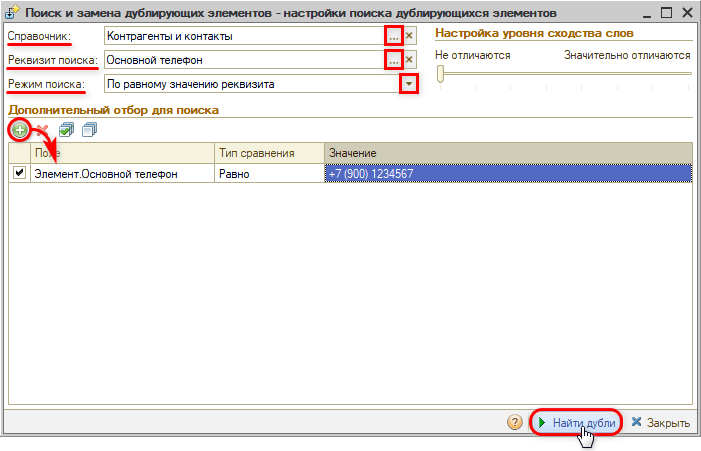
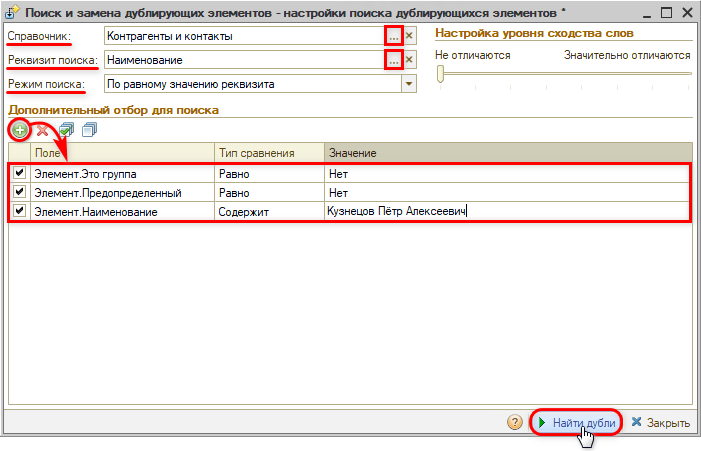
Совет «Как объединить дублирующиеся карточки контрагентов»: по тикету – сначала привести наименования к одному виду, затем поиск по наименованию с отбором (без групп и предопределенных), вариант по телефону; новые скриншоты (Катя, 27.10.2026).

Changed region(s): [[0.0, 0.2483, 0.9886, 0.4967], [0.1498, 0.1242, 0.2996, 0.1552], [0.5692, 0.1552, 0.5991, 0.2173]]

diff --git a/tips/5S AUTO/Администрирование/Как объединить дублирующиеся карточки контрагентов/kak-obedinit-dubliruyushchiesya-kartochki-kontragentov.md b/tips/5S AUTO/Администрирование/Как объединить дублирующиеся карточки контрагентов/kak-obedinit-dubliruyushchiesya-kartochki-kontragentov.md
@@ -6,7 +6,7 @@
 
 Один и тот же клиент заведен в справочнике **«Контрагенты и контакты»** дважды. Карточки могут совпадать по основному телефону или ФИО, а могут и отличаться: например, в одной карточке другой номер телефона, указано только имя без фамилии или ФИО написаны с опечаткой:
 
-![Две карточки одного клиента в справочнике «Контрагенты и контакты»](attachments/01-dubli-kontragentov-1.png)
+![Две карточки одного клиента в справочнике «Контрагенты и контакты»](attachments/01-dubli-kontragentov-2.png)
 
 Документы, автомобили и взаиморасчеты клиента оказались разнесены по двум карточкам. Как объединить их в одну?
 
@@ -17,47 +17,66 @@
 > [!CAUTION]
 > Объединение необратимо: отменить замену ссылок и вернуть удаленную карточку нельзя. Если есть тестовая база, сначала потренируйтесь на ней. Если нужно объединить много дублей, сначала объедините две карточки и проверьте результат.
 
-**1. Найдите дубли.**
+**1. Приведите наименования карточек к одному виду.**
+
+Убедитесь, что карточки относятся к одному клиенту: например, совпадают телефон и автомобили. Откройте карточку-дубль и исправьте наименование так, чтобы оно полностью совпадало с наименованием правильной карточки. В примере выше наименования различаются буквой «ё» и лишним пробелом – после исправления они совпадают:
+
+![Наименования карточек приведены к одному виду](attachments/01-privedenie-k-obshchemu-vidu-3-1.png)
+
+**2. Найдите дубли.**
 
 Откройте обработку: *Администрирование → Обслуживание → Инструменты администратора → Поиск и объединение дублей*:
 
 ![Обработка «Поиск и объединение дублей» в меню](attachments/02-poisk-i-obedinenie-dubley-1.png)
 
-В поле **«Справочник»** выберите «Контрагенты и контакты», в поле **«Реквизит поиска»** – реквизит, по которому искать совпадения, а в поле **«Режим поиска»** – способ сравнения:
+Заполните настройки поиска:
 
-- «По равному значению реквизита» – реквизит совпадает точно, например одинаковый «Основной телефон»;
-- «По похожим словам» – значения похожи, но не совпадают, например «Наименование» с опечаткой или без фамилии.
+- **«Справочник»** – «Контрагенты и контакты»;
+- **«Реквизит поиска»** – «Наименование»;
+- **«Режим поиска»** – «По равному значению реквизита».
 
-Чтобы найти дубли конкретного клиента, в таблице **«Дополнительный отбор для поиска»** нажмите **«Добавить»** и задайте условие, например «Элемент.Основной телефон» – «Равно» – номер клиента или «Элемент.Фамилия» – «Равно» – фамилия клиента. Нажмите **«Найти дубли»**:
+В таблице **«Дополнительный отбор для поиска»** кнопкой **«Добавить»** добавьте условие «Элемент.Наименование» – «Содержит» – ФИО клиента.
+
+> [!WARNING]
+> Нельзя объединять группу с элементом (например, папку контрагентов с карточкой контрагента) и предопределенные элементы – они нужны для работы программы. Чтобы такие элементы случайно не попали в поиск, рекомендуем добавить в отбор еще два условия:
+>
+> - «Элемент.Это группа» – «Равно» – «Нет»;
+> - «Элемент.Предопределенный» – «Равно» – «Нет».
+
+Нажмите **«Найти дубли»**:
 
 ![Настройки поиска дублей контрагентов](attachments/03-nastroyki-poiska-dubley-1.png)
 
+Если основной телефон в карточках одинаковый, искать можно и по нему – тогда наименования исправлять не нужно. Настройки: «Реквизит поиска» – «Основной телефон», в дополнительном отборе вместо наименования – «Элемент.Основной телефон» – «Равно» – номер клиента:
+
+![Настройки поиска дублей контрагентов по телефону](attachments/04-nastroyki-poiska-po-telefonu-1.png)
+
 > [!NOTE]
-> Без дополнительного отбора обработка проверяет весь справочник. В большой базе, особенно в режиме «По похожим словам», поиск может занять много времени, и программа на это время перестает отвечать. Чтобы поиск прошел быстрее, задайте дополнительный отбор.
+> Не рекомендуем искать без отбора по ФИО или телефону, а также в режиме «По похожим словам», особенно с ползунком «Настройка уровня сходства слов», сдвинутым к «Значительно отличаются». Обработка проверяет весь справочник, поиск в большой базе идет долго, а в одну группу попадают разные клиенты с похожими ФИО.
 
-Если дубли не найдены, измените критерии поиска: выберите другой реквизит или режим «По похожим словам», измените или уберите дополнительный отбор. В режиме «По похожим словам» можно также сдвинуть ползунок **«Настройка уровня сходства слов»** ближе к «Значительно отличаются» – тогда в одну группу попадут карточки с бо́льшими различиями в наименовании, например с разным отчеством. Такие группы проверяйте особенно внимательно: в них могут оказаться разные клиенты.
+Если дубли не найдены, проверьте, что наименования (или телефоны) в карточках совпадают полностью и в отборе указаны так же, как в карточках.
 
-**2. Проверьте найденные карточки.**
+**3. Проверьте найденные карточки.**
 
 В верхнем списке – группы дублей, в нижнем – карточки выделенной группы:
 
-![Результат поиска дублей](attachments/04-rezultat-poiska-dubley.png)
+![Результат поиска дублей](attachments/05-rezultat-poiska-dubley-1.png)
 
 Откройте и сравните карточки из нижнего списка: дважды щелкните по строке в колонке **«Объект»** и нажмите кнопку **«Открыть»**:
 
-![Открытие карточки из результатов поиска](attachments/05-otkryt-kartochku-1.png)
+![Открытие карточки из результатов поиска](attachments/06-otkryt-kartochku-1.png)
 
 Если карточка не является дублем, удалите ее из списка. Если в карточке-дубле есть данные, которых нет в правильной (например, второй телефон или e-mail), перенесите их в правильную карточку до объединения.
 
-**3. Объедините карточки.**
+**4. Объедините карточки.**
 
 Установите курсор на правильную карточку, нажмите **«Указать как правильный»** и на вопрос о замене ссылок ответьте **«Да»**:
 
-![Выбор правильной карточки и замена ссылок](attachments/06-ukazat-kak-pravilnyy-1.png)
+![Выбор правильной карточки и замена ссылок](attachments/07-ukazat-kak-pravilnyy-1.png)
 
 Откроется список ссылок на карточку-дубль – документы, регистры и другие объекты, в которых она будет заменена правильной. Проверьте список и настройки замены: при включенном флажке **«Удалять элементы после замены»** карточка-дубль будет удалена. Нажмите **«Выполнить замену элементов»** и подтвердите замену:
 
-![Выполнение замены элементов](attachments/07-vypolnit-zamenu-elementov-1.png)
+![Выполнение замены элементов](attachments/08-vypolnit-zamenu-elementov-1.png)
 
 Подробнее о работе с обработкой – в статье «[Поиск и замена дублирующихся записей → Пример работы](../../../../articles/5S%20AUTO/Администрирование%20и%20настройка%20системы/Поиск%20и%20замена%20дублирующихся%20записей/poisk-i-zamena-dubliruyuschikhsya-zapisey.md#пример-работы)».
 
@@ -66,7 +85,7 @@
 Обработка работает с любым справочником, поэтому выбирайте элементы для объединения очень внимательно. Не объединяйте:
 
 - **предопределенные элементы** – например, организацию «-» в справочнике «Организации» или головное подразделение в справочнике «Подразделения компании». Они нужны для работы программы;
-- **группу с элементом** – например, папку контрагентов с карточкой контрагента. Объединять можно только элемент с элементом;
+- **группу с элементом** – например, папку контрагентов с карточкой контрагента;
 - **элементы, которые только похожи**: однофамильцев с разными телефонами и автомобилями, товары с одинаковым номером по каталогу, но разных производителей. Совпадение реквизита поиска еще не означает, что это дубль.
 
 > [!NOTE]
